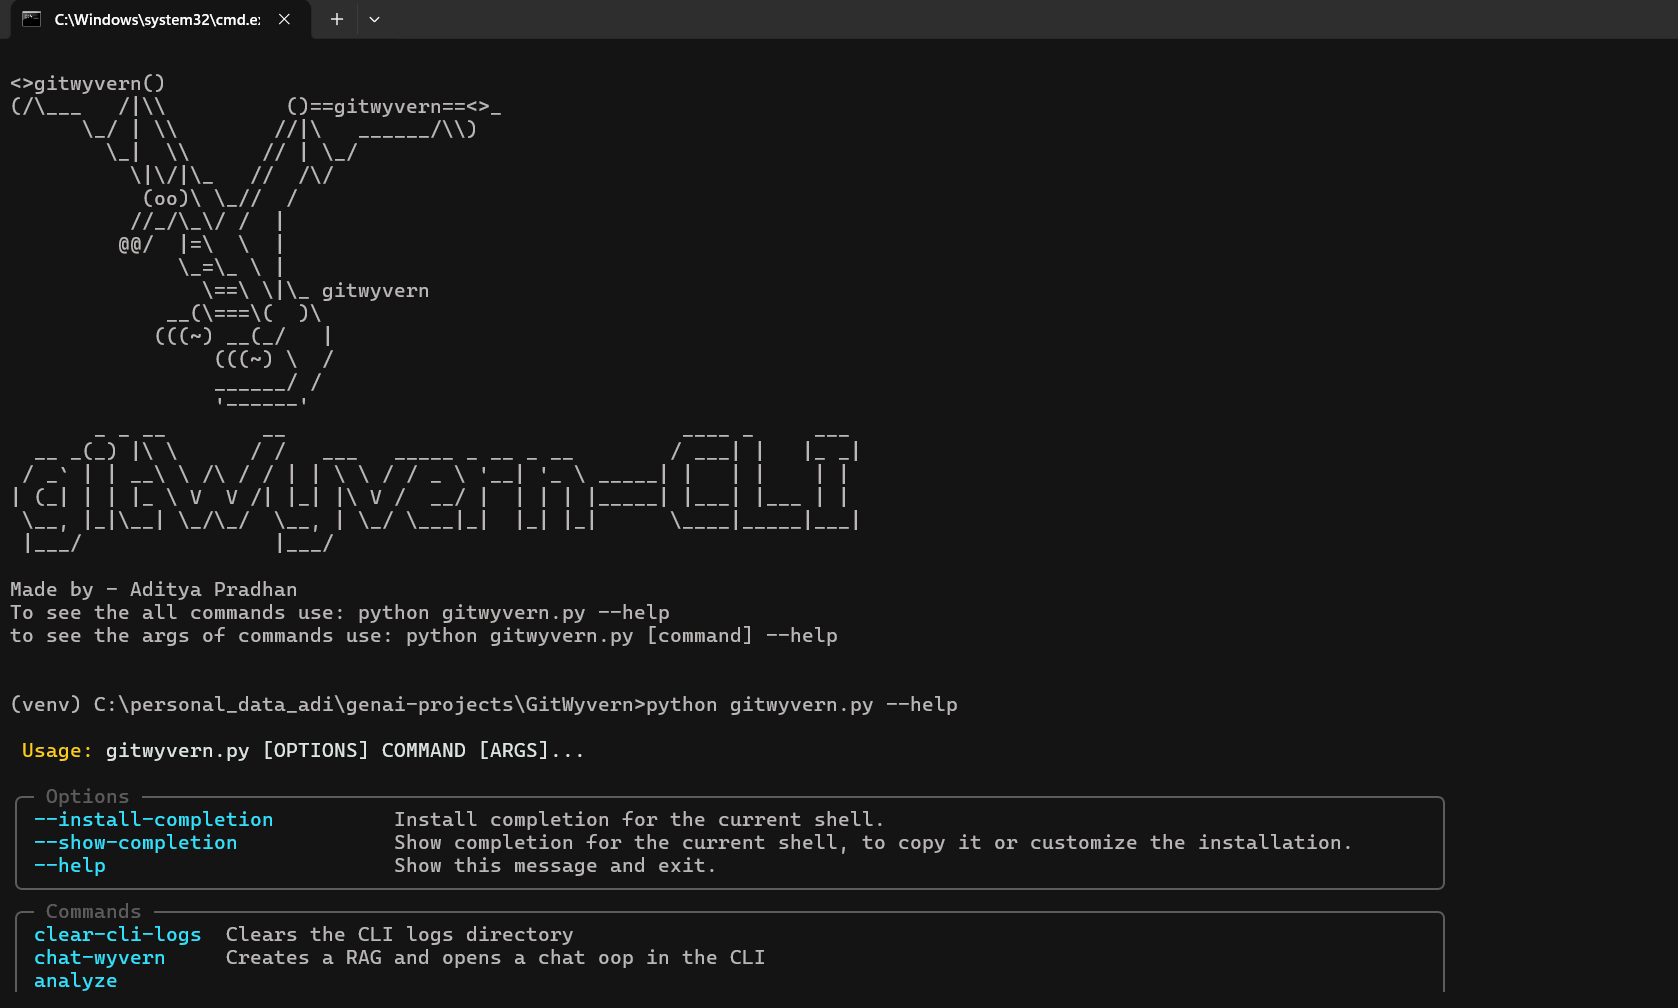
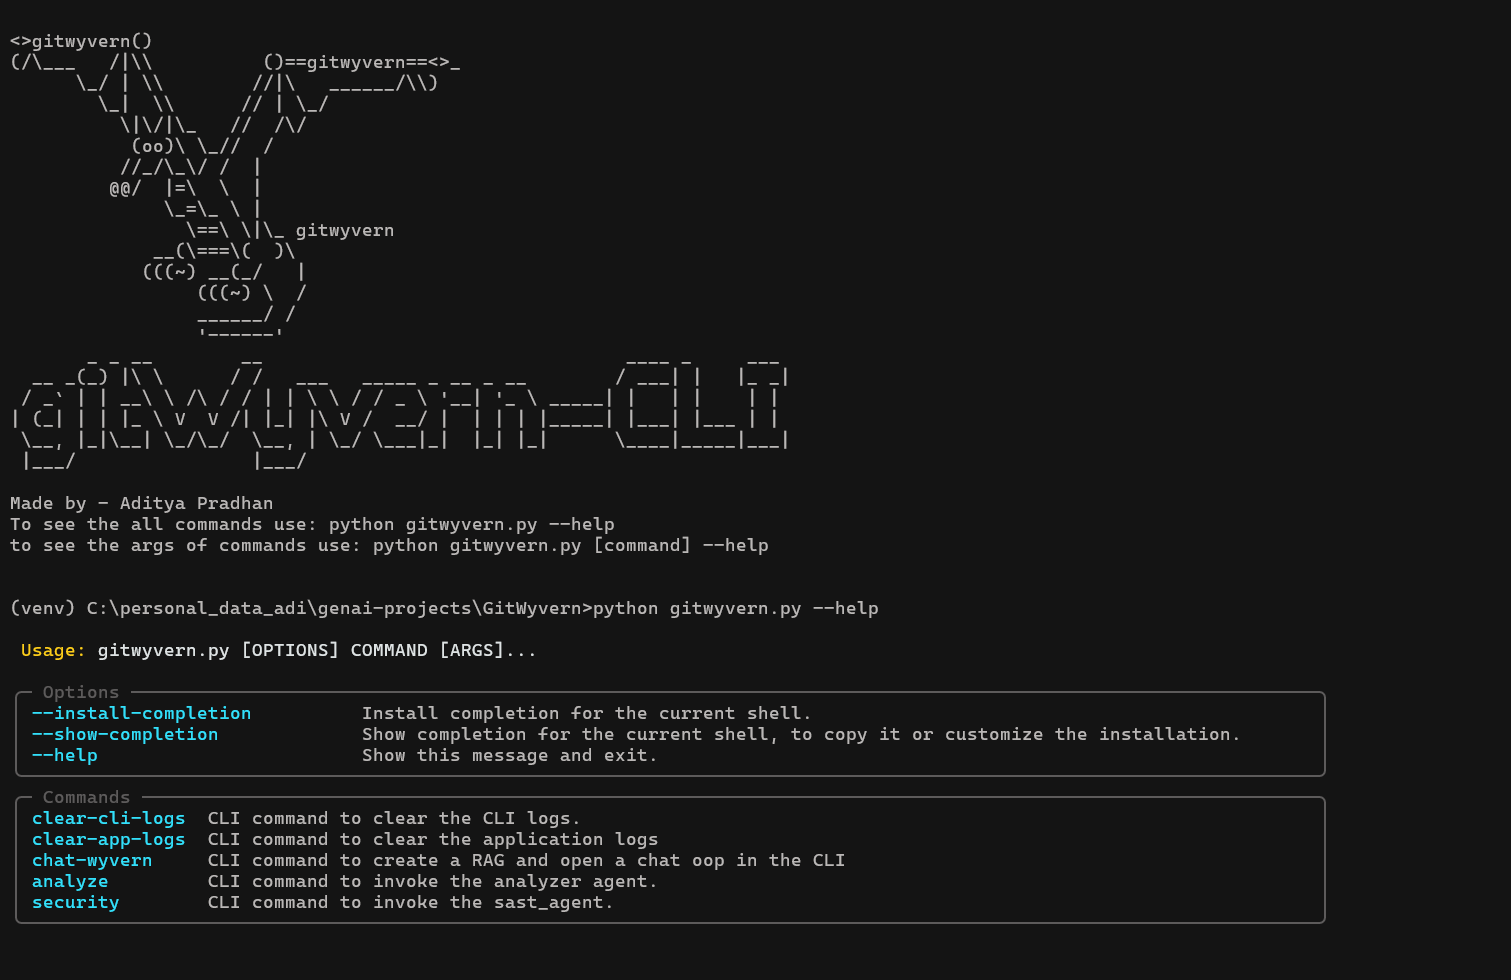
Done #17 Added function for getting a timestamp using current date and time + functions for clearing the app and cli logs + integreating app logs to every CLI command and the GUI app itself to keep a history of every activity

diff --git a/gitwyvern.py b/gitwyvern.py
@@ -9,18 +9,14 @@ from rag_pipeline import qa_rag
 from rag_pipeline import RagBuilder
 
 from wyvern_ascii import wyvern_console_ascii
-from datetime import datetime
-
-
-def cli_log_fname() -> str:
-    """Returns string containing current date and time for the filename"""
-    return str(datetime.now()).replace(" ", "_").replace(":", "-")
+from reset_vecdb import reset_vecdb
 
 app = typer.Typer()
 
+
 @app.command()
 def clear_cli_logs():
-    """Clears the CLI logs directory"""
+    """CLI command to clear the CLI logs."""
 
     dirs = os.listdir('./cli_logs/')
     confirm = input("This will clear all the CLI logs. Enter Y to proceed, otherwise enter N: ")
@@ -37,38 +33,70 @@ def clear_cli_logs():
     else:
         print("Invalid input. Enter Y or N!")
 
+@app.command()
+def clear_app_logs():
+    """CLI command to clear the application logs"""
+
+    confirm = input("This will delete all the application logs. Enter Y to proceed, other enter N: ")
+    if confirm.lower() == "y":
+        GeneralUtils.clear_app_logs()
+    elif confirm.lower() == "n":
+        print("Process canceled!")
+    else:
+        print("Invalid input! Enter either Y or N!")
+
+
 # Chat-wyvern CLI
 @app.command()
 def chat_wyvern(giturl:str):
-    """Creates a RAG and opens a chat oop in the CLI"""
+    """CLI command to create a RAG and open a chat oop in the CLI"""
     
     GeneralUtils.initialize_workdir()
+    reset_vecdb()
     ack = GitUtils.clone_repo(giturl)
     if ack:
         builder = RagBuilder()
         builder.create_vector_store()
+        stamp = GeneralUtils.datetime_stamp()
+        path = os.path.join("./cli_logs", (stamp + "-cli-c" + ".txt"))
+        GeneralUtils.app_log(datetime_stamp=stamp, log_type="CLI-chat-wyvern", giturl=giturl)
 
         print()
         wyvern_console_ascii()
-        print("---------> Chat-wyvern <--------- (write /bye to exit the chat)")
+        print("---------> Chat-wyvern <--------- (write /bye to exit and save the chat)")
+        conversation = f"Git URL - {giturl}\n\n-----> Chat history <----\n\n\n"
+
         while True:
+
             prompt = input("prompt> ")
             if prompt.lower() == "/bye":
                 print("Exiting Chat-wyvern...")
                 break
+
+            conversation += f"❔ {prompt}\n"
             print("Generating... Please wait!")
             res = qa_rag.invoke({'query':prompt})
-            print("\n-------> Wyvern's Response <--------- (write /bye to exit the chat) \n")
+            print("\n-------> Wyvern's Response <--------- (write /bye to exit and save the chat) \n")
+            conversation += f"📋 {res['response']}\n\n"
             print(res['response'])
+
             print("\n\n")
+
+        # Save conversition
+        with open(path, "w", encoding="utf-8") as file:
+            file.write(conversation)
+        print(f"Succesfully saved the conversation history at {path}")
+
     else:
         print("Couldn't clone the repository! Check your internet connection and make sure the URL is correct!")
 
 
 @app.command()
 def analyze(giturl:str):
-    fname = cli_log_fname()
-    path = os.path.join("./cli_logs", fname + "-a" + ".txt")
+    """CLI command to invoke the analyzer agent."""
+
+    stamp = GeneralUtils.datetime_stamp()
+    path = os.path.join("./cli_logs", (stamp + "-cli-a" + ".txt"))
 
     GeneralUtils.initialize_workdir()
     ack = GitUtils.clone_repo(giturl)
@@ -94,6 +122,7 @@ def analyze(giturl:str):
 
         print("\n\n---> File analysis report\n\n"+report)
         print(f"Succesfully logged the file analysis report at {path}")
+        GeneralUtils.app_log(datetime_stamp=stamp, log_type="CLI-file-analysis", giturl=giturl)
     # If the repo is not clonned succesfully
     else:
         print("Couldn't clone the repository! Check your internet connection and make sure the URL is correct!")
@@ -101,8 +130,10 @@ def analyze(giturl:str):
 
 @app.command()
 def security(giturl:str) -> None:
-    fname = cli_log_fname()
-    path = os.path.join("./cli_logs", fname + "-s" + ".txt")
+    """CLI command to invoke the sast_agent."""
+
+    stamp = GeneralUtils.datetime_stamp()
+    path = os.path.join("./cli_logs", (stamp + "-cli-s" + ".txt"))
 
     GeneralUtils.initialize_workdir()
     ack = GitUtils.clone_repo(giturl)
@@ -117,7 +148,7 @@ def security(giturl:str) -> None:
         if response["overally_safe"] == True:
             print("\n\nWyvern didn't find any vulnerabilities. The python scripts are safe to use.")
             with open(path, "w", encoding="utf-8") as file:
-                file.write("Wyvern didn't find any vulnerabilities. The python scripts are safe to use.")
+                file.write(f"Wyvern didn't find any vulnerabilities. The python scripts are safe to use.\n\nGit URL-{giturl}")
             print(f"Saving this information at {path}")
         else:
             report = ""
@@ -152,6 +183,8 @@ By confidence:
             print("\n\nWyvern found some vulnerabilities")
             print("\n---> Security scan report\n\n"+report)
             print(f"Succesfully saved the security report at {path}")
+        
+        GeneralUtils.app_log(datetime_stamp=stamp, log_type="CLI-security-scan", giturl=giturl)
     # If repo is not clonned
     else:
         print("Couldn't clone the repository! Check your internet connection and make sure the URL is correct!")

diff --git a/ui.py b/ui.py
@@ -35,9 +35,17 @@ with c2:
     st.image(image='static/wyvern_transparent_logo.png')
 
 with st.sidebar:
-    st.markdown('⚡ Made by -> [Aditya Pradhan](https://github.com/adityapradhan202)', text_alignment="center")
+    st.markdown('Made by -> [Aditya Pradhan](https://github.com/adityapradhan202)', text_alignment="center")
     st.markdown("#### :red[Options] ⚙", text_alignment="center")
-    btn = st.button(label="Get app history", use_container_width=True)
+    btn = st.button(label="Clear app logs", use_container_width=True)
+    st.caption("Path for application logs - ./app_logs/logs.json", text_alignment="center")
+    # If sidebar button is pressed
+
+    st.markdown("#### :red[Show Support] ⭐", text_alignment="center")
+    st.markdown("To show support give a star on the github repository!", text_alignment="center")
+    
+if btn:
+    GeneralUtils.clear_app_logs()
 
 with st.form("form"):
     git_url = st.text_input(label="Enter githup url (HTTPS type only):", value=None, placeholder="For example: https://github.com/adityapradhan202/Rag-Badger.git")
@@ -48,6 +56,10 @@ with st.form("form"):
 if form_btn == True and git_url is None:
     st.warning("Enter GitHub URL!")
 elif form_btn == True and git_url is not None:
+    # Updating ./app_logs/logs.json
+    stamp = GeneralUtils.datetime_stamp()
+    GeneralUtils.app_log(datetime_stamp=stamp, log_type="GUI-app", giturl=git_url)
+
     with st.spinner("Wyvern is getting repo for you..."):
         GeneralUtils.initialize_workdir()
         git_url = git_url.strip()
@@ -157,4 +169,5 @@ if st.session_state.vec_db_initialized:
             res = qa_rag.invoke({'query':query})
             with st.container(border=True):
                 st.markdown(res['response'])
+
 

diff --git a/utils/general_utils.py b/utils/general_utils.py
@@ -1,5 +1,7 @@
 import os
 import subprocess
+import json
+from datetime import datetime
 
 class GeneralUtils:
     
@@ -21,4 +23,45 @@ class GeneralUtils:
     #         subprocess.run(["bash", "reset_workdir.sh"])
     #     else:
     #         os.mkdir('./workdir')
+
+    @staticmethod
+    def datetime_stamp() -> str:
+        """Returns string containing current date and time for the filename"""
+
+        return str(datetime.now()).replace(" ", "_").replace(":", "-")
+
+    @staticmethod
+    def app_log(datetime_stamp:str, log_type:str, giturl:str, path='./app_logs/logs.json'):
+        """Logs information for maintaining application history. It will log all the activities of gitwyvern GUI and CLI."""
+
+        if not os.path.exists(path):
+            print(f"Path {path} doesnt exist!")
+            return
+        
+        new_log_data = {"type":log_type, "Git-URL":giturl}
+        
+        with open(path, "r") as file:
+            loaded_log = json.load(file)
+        loaded_log[datetime_stamp] = new_log_data
+        with open(path, "w") as file:
+            json.dump(loaded_log, fp=file, indent=4)
+        print(f"-> Updated {path}")
+
+        
+    @staticmethod
+    def clear_app_logs(path='./app_logs/logs.json'):
+        """Clears application log."""
+
+        if not os.path.exists(path):
+            print(f"Path {path} doenst exist!")
+            return
+        
+        with open(path, "w") as file:
+            json.dump({}, fp=file)
+        print("-> Cleared the application logs.")
+
+
+
+
+
 

diff --git a/rag_pipeline/builder.py b/rag_pipeline/builder.py
@@ -26,7 +26,11 @@ class RagBuilder:
 
         loader = DirectoryLoader(path=self.project_path, glob='**/*.py', loader_cls=PythonLoader)
         documents = loader.load()
-        python_splitter = RecursiveCharacterTextSplitter.from_language(language=Language.PYTHON, chunk_size=self.chunk_size, chunk_overlap=self.chunk_overlap)
+        # python_splitter = RecursiveCharacterTextSplitter.from_language(language=Language.PYTHON, chunk_size=self.chunk_size, chunk_overlap=self.chunk_overlap)
+        python_splitter = RecursiveCharacterTextSplitter(
+            chunk_size=self.chunk_size,
+            chunk_overlap=self.chunk_overlap
+        )
         code_chunks = python_splitter.split_documents(documents)
 
         print("-> Initializing vector database creation")

diff --git a/reset_vecdb.py b/reset_vecdb.py
@@ -5,9 +5,13 @@ import os
 # When the app has hard started, no db is loaded into memory, so this script can easily clean the old mess without encountering windows permission errors
 # Script to reset the vector database
 # This script is run everytime you start the application using run.bat
-if __name__ == "__main__":
+def reset_vecdb():
+    """Resets the vector database. Removes the chroma_db directory and then creates an empty directory of the same name."""
+    
     if os.path.exists("./chroma_db"):
         shutil.rmtree(path='./chroma_db')
-        # print("Removed")
     os.mkdir("./chroma_db")
-    # print("Made folder")
+    
+if __name__ == "__main__":
+    reset_vecdb()
+    

diff --git a/tests/app_log_test.py b/tests/app_log_test.py
@@ -1,0 +1,12 @@
+# Testing application logs here
+from utils import GeneralUtils
+
+func_type = input("Enter function type, log or clear: ")
+
+if func_type == "log":
+    log_type = input("Enter log type: ")
+    giturl = input("Enter Git URL: ")
+    stamp = GeneralUtils.datetime_stamp()
+    GeneralUtils.app_log(datetime_stamp=stamp, log_type=log_type, giturl=giturl)
+elif func_type == "clear":
+    GeneralUtils.clear_app_log()

diff --git a/rag_pipeline/rag_models.py b/rag_pipeline/rag_models.py
@@ -2,7 +2,7 @@ from langchain_ollama import ChatOllama, OllamaEmbeddings
 
 # Model calls for native windows (Not for docker container)
 code_model = ChatOllama(model='qwen2.5-coder:3b', temperature=0.8)
-# Using nomic-embed-text:v1.5 because it outperformed jina-embeddings-v2-base
+
 embed_model = OllamaEmbeddings(
     model='nomic-embed-text:v1.5'
     # model='unclemusclez/jina-embeddings-v2-base-code:latest'

diff --git a/rag_pipeline/qa_workflow.py b/rag_pipeline/qa_workflow.py
@@ -54,6 +54,7 @@ def use_rag(state:AgentState) -> AgentState:
 
     query = state['query']
     context = builder.retrieve_docs(query=query)
+    # print(f"\n\nRetrieved context:\n{context}\n\n") # This line is just for debugging
     response = chain.invoke({'query':query, 'context':context})
     state_upd = {'response':response}
 

diff --git a/README.md b/README.md
@@ -3,10 +3,10 @@
 </p>
 
 <p align="center">
+<img alt="Static Badge" src="https://img.shields.io/badge/Runs-locally-blue?style=flat">
 <img alt="Static Badge" src="https://img.shields.io/badge/Release-v0.0.1-blue?style=flat">
-<img alt="Static Badge" src="https://img.shields.io/badge/Runs-locally-black?style=flat">
-<img alt="Static Badge" src="https://img.shields.io/badge/windows-CLI--available-black?style=flat">
-<img alt="Static Badge" src="https://img.shields.io/badge/docker-macOs--%26--Linux-blue?style=flat">
+<img alt="Static Badge" src="https://img.shields.io/badge/CLI-available-blue?style=flat">
+<!-- <img alt="Static Badge" src="https://img.shields.io/badge/docker-macOs--%26--Linux-blue?style=flat"> -->
 </p>
 
 <h1 align="center">GitWyvern: Scout Python Repos with AI</h1>
@@ -40,7 +40,7 @@
 
 ### Setup for Windows:
 
-**First, clone this repository**.
+**Either, clone this repository** or download the windows version from **[Releases](https://github.com/adityapradhan202/GitWyvern/releases/)**.
 
 * Make sure Python is installed on your system. Then open File Explorer, navigate to the root directory of the project, and double-click on `run.bat`.
 * Double-click this Windows batch file to launch the GitWyvern GUI. If a virtual environment doesn’t exist, it will be created automatically and the required dependencies will be installed. On subsequent runs, the existing environment will be activated and the app will start at http://localhost:8501 in your default browser.
@@ -50,11 +50,12 @@
 > ⚠ In progress. Yet to be added once verified and tested!
 
 ### CLI-commands
-* To activate and use the CLI go to the root level of the cloned repository and **double click** on `cli.bat` file.
+* To activate and use the CLI go to the root level of the cloned repository and **double click** on `cli.bat` file. (**This cli.bat file will only work on Windows OS**)
 * You can use `python gitwyvern.py --help` to get the list of commands. Use `python gitwyvern.py [command] --help` to see the command line arguments for the specific commands.
+* To use the CLI in macOS or Linux, first activate the venv of the project. And use python3 instead of python for the commands mentioned above.
 
 Click here to see the list of CLI commands - [CLI Commands](./docs/cli.md)
 
 ### ⭐ Support the project:
-A star on the repository is greatly appreciated if you want to show some support.
+A star on the repository is greatly appreciated if you want to show some support.  
 ~ Made by a developer fighting imposter syndrome.

diff --git a/docs/cli.md b/docs/cli.md
@@ -3,4 +3,5 @@ Here's the list of CLI commands you can use:
 1. `python gitwyvern.py analyze [github_url]` - Analyzes code files.   
 2. `python gitwyvern.py security [github_url]` - Performs a hybrid security scan (SAST + LLM).  
 3. `python gitwyvern.py chat-wyvern [github_url]` - Creates and starts repo-aware chat system in the CLI itself.  
-4. `python gitwyvern.py clear-cli-logs [github_url]` - To clear the CLI logs.  
+4. `python gitwyvern.py clear-cli-logs` - To clear the CLI logs.  
+5. `python gitwyvern.py clear-app-logs` - To clear the application logs.
